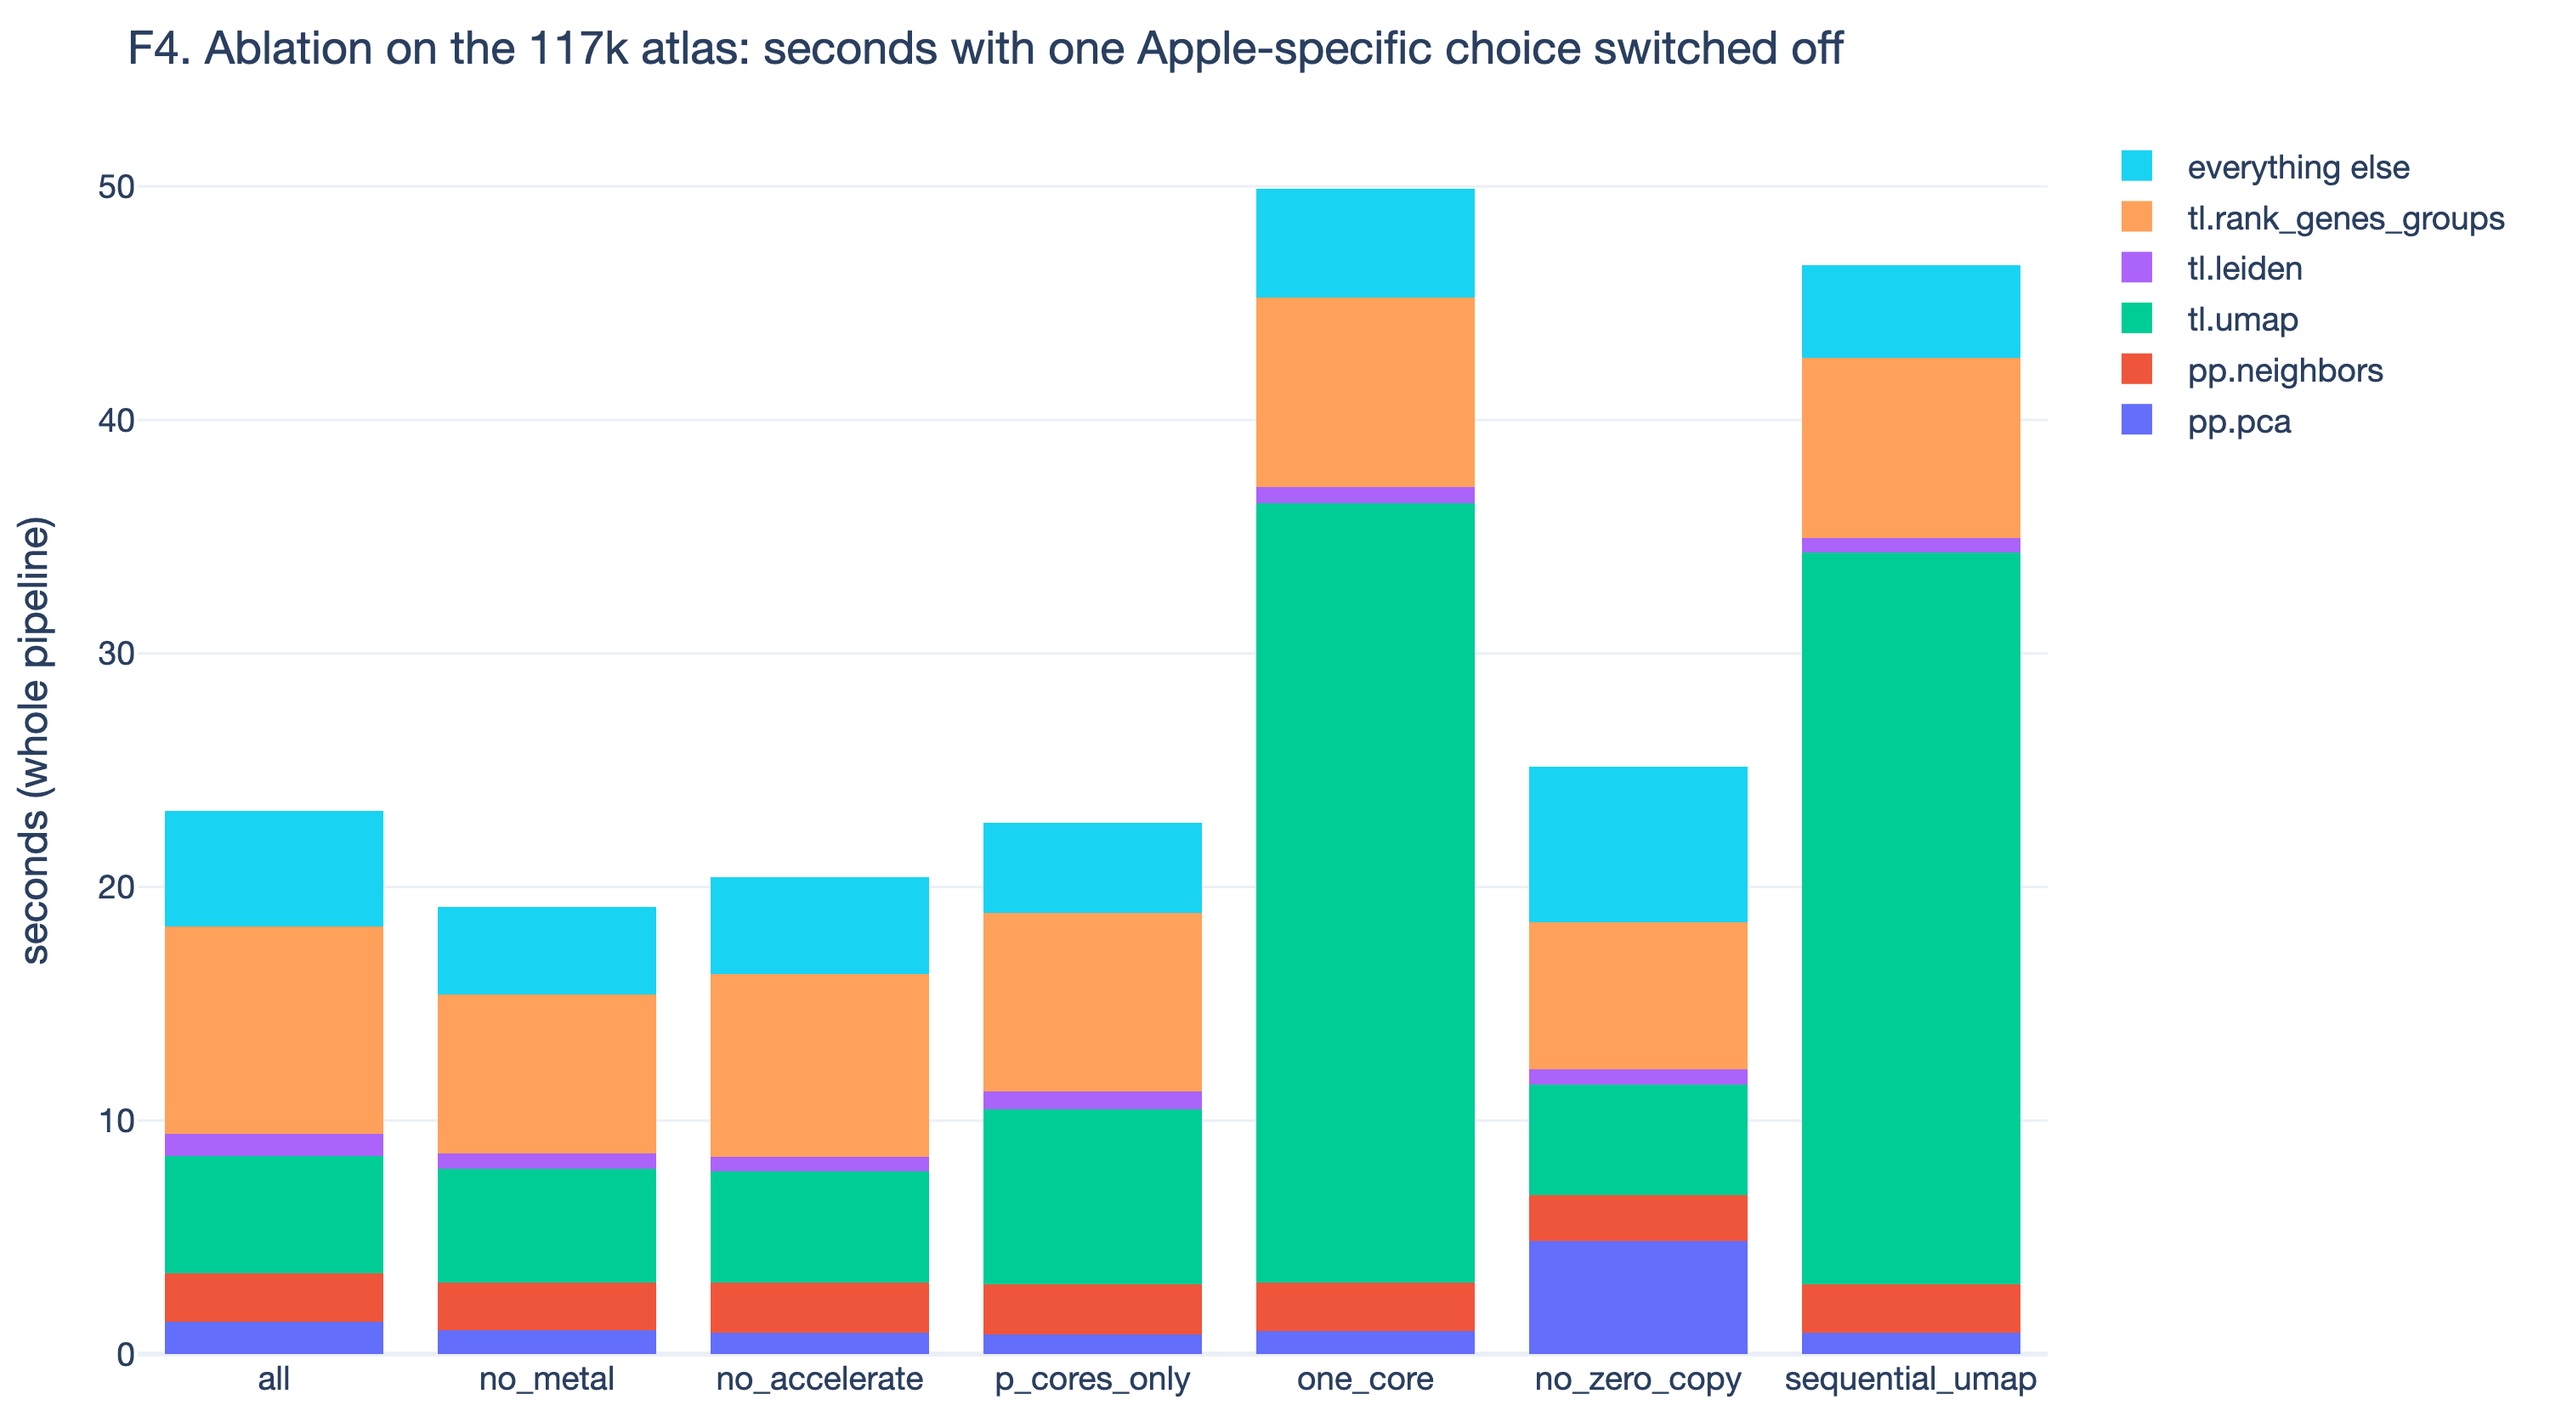
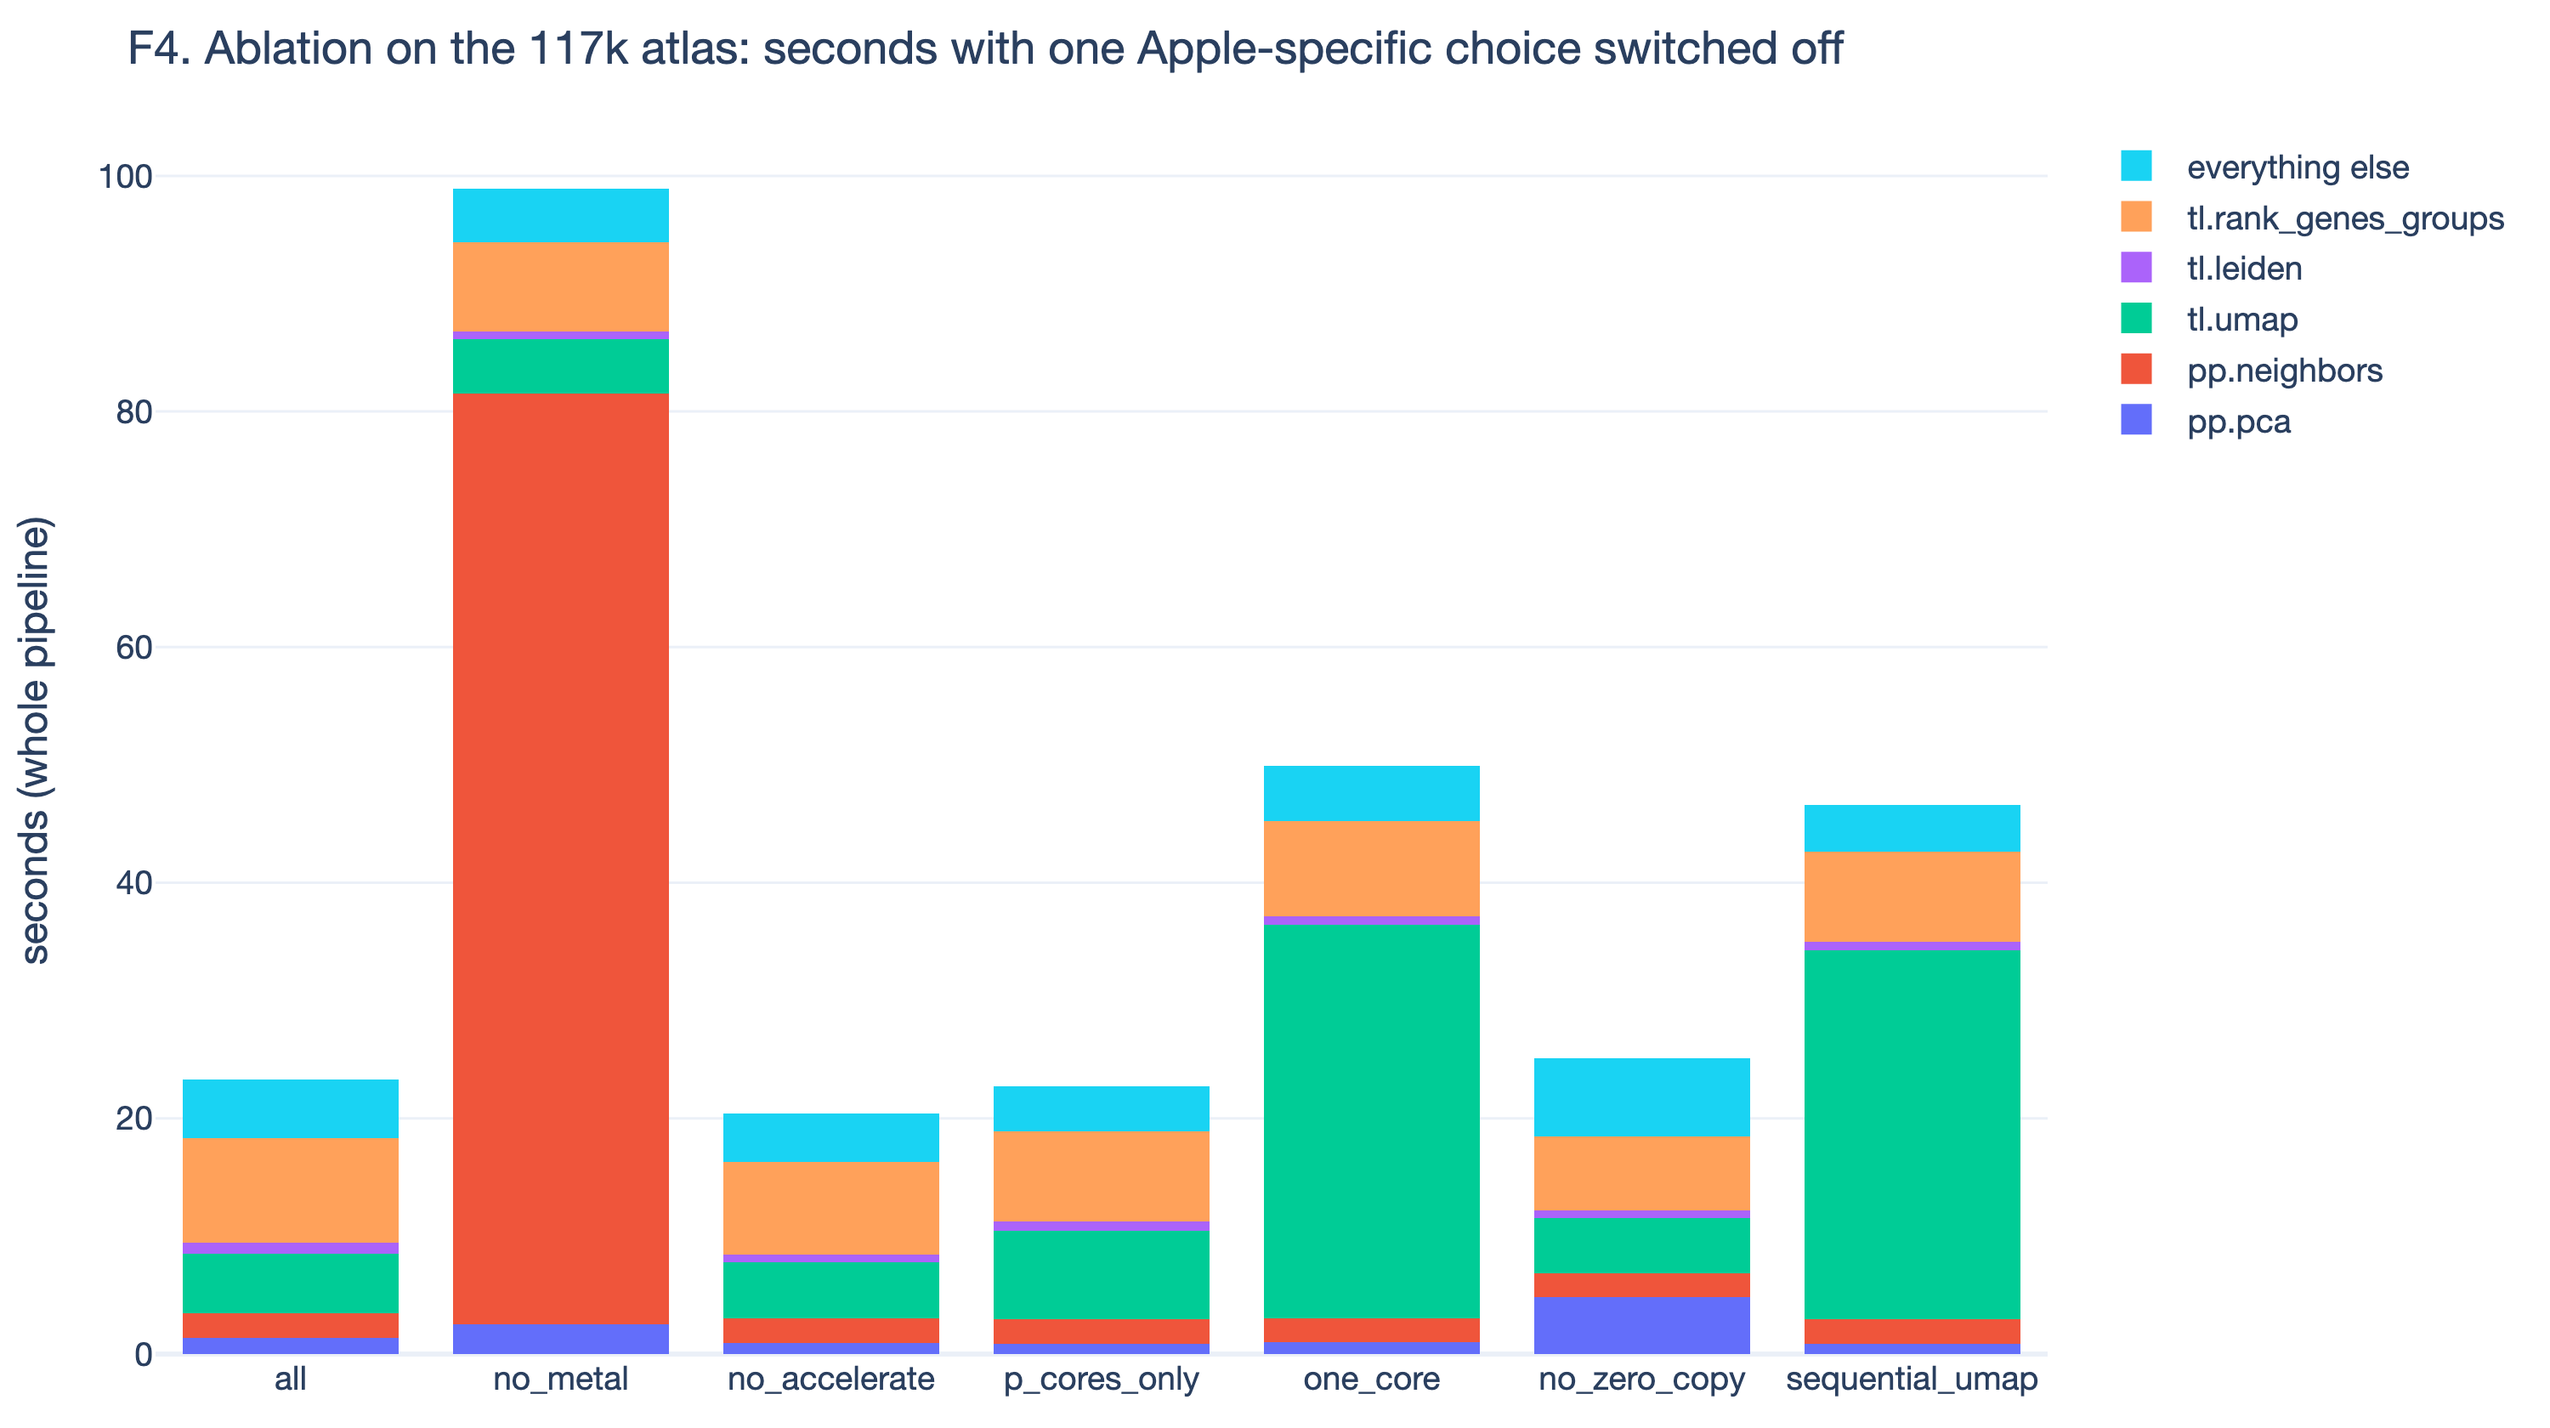
docs: real CPU-only 117k numbers (neighbours 79 s vs 2 s on Metal), corrected ablation and energy notes

diff --git a/docs/SCALE.md b/docs/SCALE.md
@@ -78,22 +78,22 @@ PYTHONPATH=$PWD/python .venv/bin/python benches/pipeline.py data/bone_marrow_117
 
 `benches/results/bm117k_*.json`. Seconds per step; 115 868 cells pass the filter, 2 000 variable genes, 36 or 37 Leiden clusters.
 
-| step | scanpy | scanpy (tuned) | scrust CPU | scrust Metal | scrust Metal, `umap(parallel=True)` |
+| step | scanpy | scanpy (tuned) | scrust CPU, parallel UMAP | scrust Metal | scrust Metal, `umap(parallel=True)` |
 |---|---:|---:|---:|---:|---:|
-| `pp.calculate_qc_metrics` | 1.46 | 1.40 | 0.95 | 0.97 | 0.92 |
-| `pp.filter_cells` | 0.69 | 0.69 | 1.98 | 2.07 | 1.20 |
-| `pp.filter_genes` | 1.10 | 1.12 | 1.08 | 1.09 | 1.03 |
-| `pp.normalize_total` | 1.18 | 1.25 | 0.13 | 0.14 | 0.11 |
-| `pp.log1p` | 0.34 | 0.35 | 0.15 | 0.15 | 0.13 |
-| `pp.highly_variable_genes` | 1.34 | 1.37 | 0.31 | 0.30 | 0.27 |
-| `subset` | 0.68 | 0.59 | 0.65 | 0.73 | 0.58 |
-| `pp.scale` | 1.00 | 0.53 | 0.03 | 0.03 | 0.03 |
-| `pp.pca` | 13.61 | 3.70 | 0.95 | 0.96 | 0.87 |
-| `pp.neighbors` | 17.85 | 18.20 | 2.07 | 2.13 | 2.09 |
-| `tl.umap` | 46.82 | 46.13 | 30.79 | 30.42 | 4.77 |
-| `tl.leiden` | 135.40 | 2.49 | 0.65 | 0.64 | 0.63 |
-| `tl.rank_genes_groups` | 11.83 | 8.29 | 7.20 | 7.33 | 8.87 |
-| **whole pipeline** | **233.3** | **86.1** | **46.9** | **47.0** | **21.5** |
+| `pp.calculate_qc_metrics` | 1.46 | 1.40 | 1.22 | 0.97 | 0.86 |
+| `pp.filter_cells` | 0.69 | 0.69 | 0.85 | 2.07 | 0.64 |
+| `pp.filter_genes` | 1.10 | 1.12 | 1.09 | 1.09 | 1.01 |
+| `pp.normalize_total` | 1.18 | 1.25 | 0.14 | 0.14 | 0.12 |
+| `pp.log1p` | 0.34 | 0.35 | 0.15 | 0.15 | 0.12 |
+| `pp.highly_variable_genes` | 1.34 | 1.37 | 0.31 | 0.30 | 0.25 |
+| `subset` | 0.68 | 0.59 | 0.76 | 0.73 | 0.55 |
+| `pp.scale` | 1.00 | 0.53 | 0.04 | 0.03 | 0.02 |
+| `pp.pca` | 13.61 | 3.70 | 2.54 | 0.96 | 1.10 |
+| `pp.neighbors` | 17.85 | 18.20 | 78.98 | 2.13 | 1.97 |
+| `tl.umap` | 46.82 | 46.13 | 4.66 | 30.42 | 4.80 |
+| `tl.leiden` | 135.40 | 2.49 | 0.64 | 0.64 | 0.66 |
+| `tl.rank_genes_groups` | 11.83 | 8.29 | 7.52 | 7.33 | 7.61 |
+| **whole pipeline** | **233.3** | **86.1** | **98.9** | **47.0** | **19.7** |
 
 - **Against scanpy's defaults the pipeline is 5x faster on the same laptop, 11x with the
   parallel UMAP; against scanpy tuned (`covariance_eigh` PCA, `igraph` Leiden with two
@@ -102,10 +102,13 @@ PYTHONPATH=$PWD/python .venv/bin/python benches/pipeline.py data/bone_marrow_117
   (9.7x with the Hogwild optimiser; umap-learn's own parallel path did not engage through
   scanpy, 46 s either way), PCA (4x) and Leiden (3.9x against `igraph`, 210x against the
   default `leidenalg` run to convergence).
-- **CPU and Metal give the same times here.** At 2 000 genes and 116 000 cells PCA and the
-  neighbour search are each about a second on either device, so the win over scanpy on this
-  dataset comes from the Rust core using every core, not from the GPU. The GPU earns its
-  place one step up in size (section 3), where the scatter products stop fitting a CPU budget.
+- **The GPU is the neighbour search.** With `settings.device="cpu"` honoured (a bug fixed on this
+  branch: sixteen functions used to ignore it), the brute-force k-NN takes 79 s on the CPU through
+  Accelerate and 2.0 s on Metal, a 40x gap on the one step that is quadratic in cells; PCA is 2.5x
+  faster on Metal. Everything else is the same on either device, so on this atlas the whole
+  pipeline is 99 s CPU-only against 20 s with the GPU. The scrust CPU column still beats scanpy's
+  defaults (233 s) and is level with scanpy tuned (86 s); the GPU is what pulls it to 4x under
+  the tuned figure.
 - **The elementwise head is at parity or a little ahead**, as at 100 000 cells. `filter_cells`
   is slower in scrust (it copies the matrix once more than scanpy); it is 2 s of a 47 s run.
 - **The rank-sum test is 1.3x to 1.6x here**, not the 73x of section 1: 2 000 genes by 37
@@ -207,7 +210,7 @@ package subtracted) for the whole 117k pipeline; the pipeline ran as the user, p
 |---|---:|---:|---:|---:|---:|---:|
 | scanpy (defaults) | 229 | 980 | 0 | **974** | 6.0 | 8 |
 | scrust, Metal, parallel UMAP | 20 | 159 | 72 | **195** | 9.5 | 2 |
-| scrust, `settings.device="cpu"` (see note) | 19 | 161 | 72 | **197** | 9.6 | 2 |
+| scrust, run labelled "cpu" (was a Metal run, see note) | 19 | 161 | 72 | **197** | 9.6 | 2 |
 
 - **scrust does the same analysis for one fifth of the energy**: 195 J against 974 J, because it is
   done 12x sooner while drawing only 1.6x the power (9.5 W against 6.0 W: scanpy keeps one core
@@ -216,12 +219,13 @@ package subtracted) for the whole 117k pipeline; the pipeline ran as the user, p
   92 s for a million cells; an L40S is rated at 300 W and the EPYC host at 200 W, so even at half
   load that is roughly 20 to 45 kJ for the same work: the laptop is one order of magnitude cheaper
   in energy and one order of magnitude slower in time.
-- **The GPU rail is a quarter of scrust's energy** (72 J) and it was drawn in the "cpu" run as well.
-  That run was not CPU-only: at the time of the measurement `pp.neighbors`, `pp.pca`, `tl.umap`,
-  `tl.leiden` and `tl.rank_genes_groups` defaulted to `device="auto"` in their own signatures and
-  ignored `settings.device`, a bug the energy trace exposed and this branch fixes (every function
-  now resolves `device=None` through `settings`). The CPU row will be re-measured; until then the
-  "CPU and Metal are level" statements in sections 2, 3 and 5 are statements about two Metal runs.
+- **The GPU rail is a quarter of scrust's energy** (72 J) and it was drawn in the "cpu" run as
+  well, which is how the measurement caught a bug: `pp.neighbors`, `pp.pca`, `tl.umap`, `tl.leiden`,
+  `tl.rank_genes_groups` and eleven other functions defaulted to `device="auto"` in their own
+  signatures and ignored `settings.device`. Fixed on this branch (every function now resolves
+  `device=None` through `settings`); the third row is therefore a second Metal run, and the true
+  CPU-only pipeline is 99 s (section 2), which at the same 8 W would be about 800 J, close to
+  scanpy's. The energy saving comes with the GPU; a re-measured CPU row needs one more `sudo` run.
 - Idle draw was 1.8 W before the scanpy run and 0.6 W before the scrust runs (the machine had
   been busy); the net figures subtract each run's own idle.
 
@@ -243,7 +247,7 @@ between 6.3 and 8.9 s with nothing changed), so differences under that are not d
 | configuration | what is off | whole | PCA | neighbours | UMAP | Leiden | markers | scale | normalise |
 |---|---|---:|---:|---:|---:|---:|---:|---:|---:|
 | `all` | nothing | 23.3 | 1.37 | 2.08 | 5.04 | 0.94 | 8.88 | 0.05 | 0.15 |
-| `no_metal` | the GPU (`device="cpu"`) | 19.1 | 1.01 | 2.04 | 4.87 | 0.66 | 6.83 | 0.03 | 0.12 |
+| `no_metal` | the GPU (`device="cpu"`, re-measured after the fix) | 98.9 | 2.54 | 78.98 | 4.66 | 0.64 | 7.52 | 0.04 | 0.14 |
 | `no_accelerate` | Apple's BLAS, AMX (wheel built without the feature) | 20.4 | 0.92 | 2.13 | 4.76 | 0.63 | 7.84 | 0.03 | 0.14 |
 | `p_cores_only` | the 6 efficiency cores (`RAYON_NUM_THREADS=5`) | 22.8 | 0.85 | 2.12 | 7.49 | 0.77 | 7.66 | 0.02 | 0.14 |
 | `one_core` | every core but one (`RAYON_NUM_THREADS=1`) | 49.9 | 0.99 | 2.07 | 33.38 | 0.69 | 8.10 | 0.09 | 0.21 |
@@ -252,11 +256,12 @@ between 6.3 and 8.9 s with nothing changed), so differences under that are not d
 
 What the table says, plainly:
 
-- **At this size neither the GPU nor the AMX units buy anything measurable.** Switching
-  Metal off is 4 s *faster* (the GPU path pays for pipeline compilation and command-buffer
-  round trips that a 2 000-gene problem does not amortise), and the pure-Rust BLAS is
-  within noise of Accelerate. The 5x to 11x over scanpy on this atlas comes from the Rust
-  core: fused single passes, `f32` throughout, and work spread over every core.
+- **The GPU is worth 79 s of a 99 s run, all of it in one step.** The brute-force neighbour
+  search is 2 s on Metal and 79 s on the CPU; PCA is 1.4 s against 2.5 s; nothing else moves.
+  (The first pass of this table had `no_metal` at 19 s, *faster* than `all`: that run was still
+  on Metal because `pp.neighbors` and four other functions ignored `settings.device`, the bug the
+  energy trace exposed. The row above is the re-measurement.) The AMX units through Accelerate
+  are within noise of the pure-Rust BLAS at this size: the matmuls here are too small to show it.
 - **The cores are what count, and all eleven of them.** UMAP's Hogwild sweep is 6.6x faster
   on 11 threads than on 1 and 1.5x faster than on the 5 performance cores alone: the
   efficiency cores are not idle ballast, they carry a third of the epochs. Everything else
@@ -269,12 +274,13 @@ What the table says, plainly:
   search runs through Accelerate or Metal whichever way rayon is set, so this knob never
   reached it; the rank-sum test is rayon-parallel in Rust, so its 8 s must be spent in the
   Python assembly of the result (structured arrays, DataFrames), which a profile will show.
-- **The Apple-silicon case is therefore not "the GPU makes the steps faster" at 10⁵ cells.**
-  It is (i) unified memory, which lets a million cells stream off the disk through buffers
-  the CPU and GPU both read without a copy (section 3), (ii) a laptop package that runs the
-  whole pipeline on every core at under 30 W (section 4), and (iii) at 10⁶ cells, the matrix
-  units for the neighbour search once it is written for them (`docs/PLAN_APPLE_SILICON.md`,
-  2.1). The 1 M-cell ablation in the plan will say whether (iii) holds before that rewrite.
+- **The Apple-silicon case, in order of what the table shows:** (i) the GPU for the one
+  quadratic step, 40x on the neighbour search, which is what keeps a million cells at two
+  minutes instead of an hour and a half; (ii) all eleven cores for the optimiser and the
+  elementwise passes; (iii) unified memory, which lets a million cells stream off the disk
+  through buffers the CPU and GPU both read without a copy (section 3); (iv) a package that
+  does all of this at under 10 W (section 4). The AMX units do not show at 2 000 genes; the
+  plan's neighbour-search rewrite (`docs/PLAN_APPLE_SILICON.md`, 2.1) is where they would.
 
 ## 6. Against the NVIDIA-GPU alternative
 

diff --git a/docs/PLAN_APPLE_SILICON.md b/docs/PLAN_APPLE_SILICON.md
@@ -11,21 +11,22 @@ Tick items off here as they land; `docs/SCALE.md` holds the numbers.
 | area | state |
 |---|---|
 | per-operation benchmark to 100 000 cells | done, `benches/results/benchmark_100k_m3pro.txt` |
-| real 117k atlas end to end, scanpy vs scrust (CPU, Metal, parallel UMAP) | done, 233 s / 47 s / 47 s / 21.5 s |
+| real 117k atlas end to end, scanpy vs scrust (CPU, Metal, parallel UMAP) | done, 233 s / 99 s / 47 s / 20 s |
 | scanpy with its fastest settings (`--tuned`) as a fourth column | done, 86.1 s |
-| 1 M cells on 18 GB through `pp.preprocess_backed` | done, 210 s Metal, 214 s CPU |
+| 1 M cells on 18 GB through `pp.preprocess_backed` | done, 210 s Metal; CPU-only being re-measured (the first "CPU" run was Metal) |
 | scanpy on 1 M cells on the same machine | did not finish: `scale` needed 21.9 GB, PCA swapped, killed at 15 min |
 | streamed PCA held to scanpy's exact solver | done, `tests/test_streaming.py` and 50/50 components on real data |
-| energy per run (`benches/energy.py`, `benches/run_energy.sh`) | script ready, needs one `sudo` run |
+| energy per run (`benches/energy.py`, `benches/run_energy.sh`) | done: scanpy 974 J, scrust Metal 195 J |
 | placement against rapids-singlecell | written from their published numbers, `docs/SCALE.md` section 5 |
 | Rust unit tests | 267 pass; Python suite not yet re-run in full after today's changes |
 | CI on `main` | red: `clippy -D warnings` and 3 scanpy-1.12.4 median tests (pre-existing) |
 
-The one finding that changes the message: **on an M3 Pro the CPU path through Accelerate
-(AMX) matches the Metal path to within 2% on both the 117k and the 1 M runs.** The speed
-is the whole chip (every core, the AMX units, the GPU, one memory), not the GPU alone.
-The claim to prove is therefore "optimised for Apple silicon", and the proof is an
-ablation, not a scanpy comparison.
+The finding that shapes the message, after the `settings.device` bug was found and fixed:
+**the GPU is worth 40x on the neighbour search and nothing measurable elsewhere; the cores
+are worth 6.6x on the UMAP optimiser; the AMX units do not show at 2 000 genes.** The claim
+is "optimised for Apple silicon" as a package (GPU for the quadratic step, every core for the
+rest, unified memory for the out-of-core head, under 10 W), and the proof is the ablation in
+`docs/SCALE.md` section 5, not a scanpy comparison.
 
 ## 1. Evidence: the experiments that prove the claim
 
